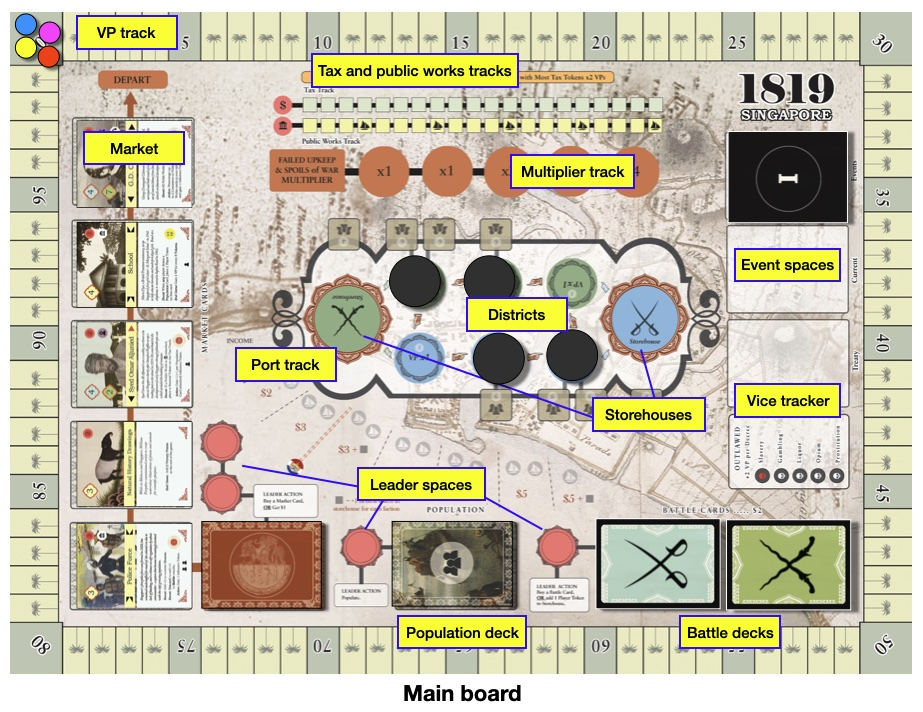
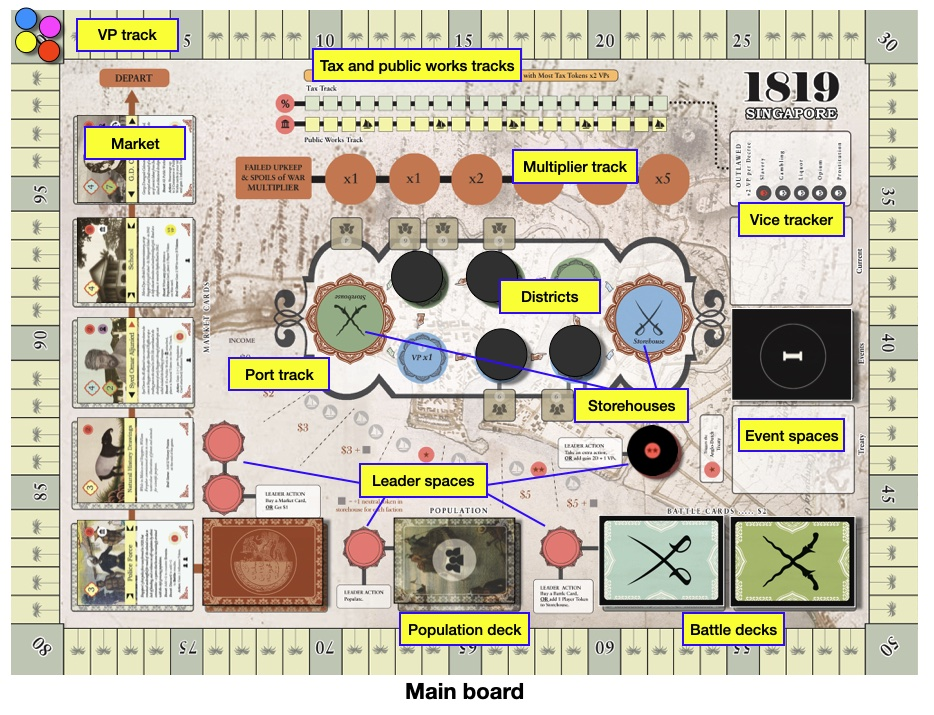
Update rules

diff --git a/5_important_concepts.md b/5_important_concepts.md
@@ -107,7 +107,7 @@ To **Fund** a Public Work, pay **$1 \\(\times\\) Upkeep Multiplier**, where the 
 When Public Works are unfunded, their physical structures --- while still standing --- must be shuttered, and the workers tending to its functions must leave.
 
 To **Close** a Public Work:
-1. Flip any one Public Works card in your Tableau face down.
+1. Flip any one Public Works card in your tableau face down.
 2. Remove the unfunded token from the Public Works track.
 3. Discard any attached Population cards.
 4. Remove the corresponding number of Population cubes from the board.
@@ -116,7 +116,7 @@ A face-down Public Work cannot be Activated. If the Public Work was part of a Co
 
 ![Closing](img/closing.jpg)
 
-> *Example.* Your Tableau had one Community, consisting of G.D. Coleman, School, and Resident.
+> *Example.* Your tableau had one Community, consisting of G.D. Coleman, School, and Resident.
 - During Upkeep, you were unable to fund your School.
 - So you flip the card over and discard the Population card and player tokens.
 - You also remove one Public Work token from the track.
@@ -131,18 +131,26 @@ On your turn, you may **Rebuild** a Public Work by paying its cost as a Free Act
 
 ## Moving cards
 
-You can move **standalone cards** and **cards at the edges of Communities**. With **one move**, you can:
+### Population cards
+{: .no_toc }
+
+With **one move**, you can move a Population card to any vacant Population slot in the same tableau.
+
+### Market and Leader cards
+{: .no_toc }
+
+You can move Market and Leader cards that are **standalone** or **at the edge of a Community**. With **one move**, you can:
 - Connect a standalone card to a Community.
 - Separate a card from a Community.
 - Separate a card from one Community and connect it to another.
 
-Population cards move with the card they are attached to. Alternatively, you can also move **Population cards** themselves to any card with sufficient Population slots.
+In this case,Population cards move with the card they are attached to.
 
-Cards cannot move between players' Tableaus. One move must be completed before the next one can begin. You may make fewer moves than specified, or opt not to move any card.
+Cards cannot move *between* tableaus. One move must be completed before the next one can begin. You may make fewer moves than specified, or opt not to move any card.
 
 ![Move card](img/move.jpg)
 
-> *Example.* You have a Community of three cards and one standalone card in your Tableau. You may move any card except School. With 1 move, you can:
+> *Example.* You have a Community of three cards and one standalone card in your tableau. You may move any card except School. With 1 move, you can:
 - Connect Sports Day (together with Orang Laut) to G.D. Coleman; or
 - Separate the Resident from School; or
 - Separate the Resident from School and connect him to Sports Day; or

diff --git a/actions_buy.md b/actions_buy.md
@@ -13,7 +13,7 @@ nav_order: 1
 Buy one available card from the Market, then:
 
 1. Resolve any [instant effects](important-concepts#instant-effects);
-2. Add the card to your Tableau, making at most one connection; then
+2. Add the card to your tableau, making at most one connection; then
 3. Shift all face-up cards to the right, and draw the top card of the Market deck to fill the leftmost space.
 
 ## Anatomy of a Market card
@@ -29,7 +29,7 @@ Buy one available card from the Market, then:
 | Symbol | Meaning |
 | :---: | :---: |
 | ![Influence](img/icons/influence.png) | Place *n* **Influence** tokens on Districts. See [Placing Influence](important-concepts#placing-influence). |
-| ![Move](img/icons/move.png) | **Move** *n* cards in **your own** / <span style="color:red"><strong>any player's</strong></span> Tableau. See [Moving cards](important-concepts#moving-cards). |
+| ![Move](img/icons/move.png) | **Move** *n* cards in **your own** / <span style="color:red"><strong>any player's</strong></span> tableau. See [Moving cards](important-concepts#moving-cards). |
 | ![Wealth](img/icons/wealth.png) | Gain *x* amount of **Wealth**. |
 | ![Public Work](img/icons/public_works.png) | **Public Works** card: Add Player token to Public Works track. See [Perform Upkeep](sequence-of-play#4-perform-upkeep). |
 | ![Tax and Philanthropy](img/icons/tax_philanthropy.png) | **Tax** card: Add *n* **Player** / <span style="color:green"><strong>Neutral</strong></span> tokens to Tax track. See [Perform Upkeep](sequence-of-play#4-perform-upkeep). |
@@ -45,7 +45,7 @@ Buy one available card from the Market, then:
 
 Connections can be made between Connectors with **opposite shapes** and **identical colors**. When you buy a Market card, make up to 1 valid connection.
 
-> *Example.* You have 4 cards in your Tableau:
+> *Example.* You have 4 cards in your tableau:
 - Cathedral and Hajjah Fatimah are connected.
 - Alexander Guthrie and Sports Day *could have been* connected, using Guthrie's left Connector.
 

diff --git a/2_sequence-of-play.md b/2_sequence-of-play.md
@@ -8,18 +8,29 @@ nav_order: 2
 ## Game Flow
 
 1819 Singapore is played over a series of eight rounds or fewer. Each round proceeds as follows:
-1. [Draw new Event card](#1-draw-new-event-card);
+1. [Events](#1-events);
 2. [Distribute Income](#2-distribute-income);
 3. [Take Player turns](#3-take-player-turns);
 4. [Perform Upkeep](#4-perform-upkeep); and
 5. [Cleanup](#5-cleanup).
 
-## 1. Draw new Event card
+## 1. Events
 
-- In the first round, reveal the Singapore Treaty and place two Ships on the Port track.
-- In succeeding rounds, reveal the top Event card and resolve any [instant effects](important-concepts#instant-effects) before proceeding. 
+### a. Check Ships
+- In the first round, skip this step.
+- In succeeding rounds, count the Ships in the Port.
+    - If there are **at least seven** Ships, discard the Singapore Treaty.
+    - The Anglo-Dutch Treaty is now in effect.
 
-See [Events](events).
+*Note: Once the Anglo-Dutch Treaty is signed, skip this step going forward---the Treaty cannot be unsigned!*
+
+### b. Draw new Event card
+- In the first round, reveal the Singapore Treaty onto the Treaty space. Add two Ships to the Port.
+- In succeeding rounds, reveal the top Event card onto the Current space. Resolve any [instant effects](important-concepts#instant-effects) before proceeding.
+
+*Note: The effects of the Anglo-Dutch Treaty are public knowledge---players may refer to the card even while covered by the Singapore Treaty.*
+
+Also see [Events](events).
 
 ## 2. Distribute Income
 
@@ -55,7 +66,7 @@ The Core Actions are:
 - Issue a **Decree**
 - Declare **War** *(counts as two Actions)*
 
-See [Core Actions]actions). 
+See [Core Actions](actions). 
 
 Other Actions may become available to you as the game progresses. The same Action may be taken twice, unless otherwise specified.
 

diff --git a/1_setup.md b/1_setup.md
@@ -50,6 +50,8 @@ Hand the player who rolls the highest the First Player token.
 
 Cover the x2 and x3 Districts with the four black markers. These Districts are closed; they must be Populated before players can place Influence tokens on them.
 
+<!-- Cover the Leader space marked with &#9733;&#9733; with the corresponding black marker. This Leader space is closed; eleven Ships must enter the Port before it opens. -->
+
 <!-- > *3-player game: the solo player only covers their x3 District.* -->
 <!-- ## Card Setup -->
 
@@ -57,10 +59,10 @@ Cover the x2 and x3 Districts with the four black markers. These Districts are c
 
 Separate the Event cards by their backs: Event I, Event II, and the Treaties.
 
-- Shuffle the Event II cards, then deal 3 face down onto the Event deck space.
-- Place the Anglo-Dutch Treaty face down on top of the Event II cards.
-- Then shuffle the Event I cards and deal 3 face down on top of the Treaty.
-- Finally, place the Singapore Treaty face down on the pile.
+- Shuffle the Event II cards, then deal 3 face down onto the Events space.
+- Then shuffle the Event I cards and deal 3 face down on top of the Event II cards.
+- Place the Singapore Treaty face down on top of the Event I cards.
+- Place the Anglo-Dutch Treaty **face up** on the Treaty space.
 
 Put the rest of the Event cards away.
 

diff --git a/index.md b/index.md
@@ -47,7 +47,9 @@ We recommend you first play **Fantasy Mode**.
 ## A Historical Notanda
 *1819* is a game of politics. The political toolbox available to players is determined by the Treaty currently in effect.
 
-When the British Agents initially arrived in the Malayan Straits --- a corner of which is now known as *Singapura*, Singapore --- they were initially allied with the local Malay Rajas against their common rivals, the Dutch and the Bugis. This alliance was cemented by the Singapore Treaty of 1819. Thus, at the start of the game, **War** is rather costly.
+When the British Agents initially arrived in the Malayan Straits --- a corner of which is now known as *Singapura*, Singapore --- they were initially allied with the local Malay Rajas against their common rivals, the Dutch and the Bugis. This alliance was cemented by the Singapore Treaty of 1819. Thus, at the start of the game, players cannot access their stronger, more destructive Battle cards.
+
+<!-- Thus, at the start of the game, **War** is rather costly. -->
 
 However, halfway through the game, the Anglo-Dutch Treaty makes peace between the Dutch and the British Agents, who no longer need to appease the Malay Rajas. The Singapore Treaty is overruled, the Rajas lose their leverage, and the threat of War looms larger on the horizon...
 

diff --git a/icons_reference_list.md b/icons_reference_list.md
@@ -10,7 +10,7 @@ nav_order: 8
 | :---: | :---: |
 | ![Influence](img/icons/influence.png) | Place *n* **Influence** tokens on Districts. See [Placing Influence](important-concepts#placing-influence). |
 | ![Populate](img/icons/immigrants.png) | Add *n* **Population** cubes to Districts. See [Placing Population](important-concepts#placing-population). |
-| ![Move](img/icons/move.png) | **Move** *n* cards in **your own** / <span style="color:red"><strong>any player's</strong></span> Tableau. See [Moving cards](important-concepts#moving-cards). |
+| ![Move](img/icons/move.png) | **Move** *n* cards in **your own** / <span style="color:red"><strong>any player's</strong></span> tableau. See [Moving cards](important-concepts#moving-cards). |
 | ![Wealth](img/icons/wealth.png) | Gain *x* amount of **Wealth**. |
 | ![Public Work](img/icons/public_works.png) | **Public Works** card: Add Player token to Public Works track. See [Perform Upkeep](sequence-of-play#4-perform-upkeep). |
 | ![Tax and Philanthropy](img/icons/tax_philanthropy.png) | **Tax** card: Add *n* **Player** / <span style="color:green"><strong>Neutral</strong></span> tokens to Tax track. See [Perform Upkeep](sequence-of-play#4-perform-upkeep). |

diff --git a/actions_activate.md b/actions_activate.md
@@ -7,11 +7,11 @@ nav_order: 3
 ---
 ## Activate
 
-Activate one card or Community in your Tableau. Take all Actions listed. **Each card or Community may only be Activated once per round.**
+Activate one card or Community in your tableau. Take all Actions listed. **Each card or Community may only be Activated once per round.**
 
 ![Activate cards](img/activate.jpg)
 
-> *Example.* In your Tableau, you have 1 standalone card --- Opium Tax Farm --- and 1 Community, consisting of Sports Day, Temenggong, and Gutta Percha Plantation.
+> *Example.* In your tableau, you have 1 standalone card --- Opium Tax Farm --- and 1 Community, consisting of Sports Day, Temenggong, and Gutta Percha Plantation.
 
 > For your first Action, you Activate the Community:
 - Sports Day lets you place 2 Influence tokens on Districts;

diff --git a/actions_populate.md b/actions_populate.md
@@ -9,13 +9,13 @@ nav_order: 2
 
 Draw the top card of the Population deck, then:
 1. Resolve any [instant effects](important-concepts#instant-effects);
-2. Place the card in a vacant Population slot in your Tableau.
+2. Place the card in a vacant Population slot in your tableau.
 
-**If your Tableau has no vacant Population slots, you may not Populate!**
+**If your tableau has no vacant Population slots, you may not Populate!**
 
 ![Population cards](img/population_tableau.jpg)
 
-> *Example.* Your Tableau has 2 cards: the Sultan and the Newspaper.
+> *Example.* Your tableau has 2 cards: the Sultan and the Newspaper.
 - The Teochews Population card occupies the Sultan's only Population slot.
 - Newspaper has one free slot, allowing you to Populate it with the Javanese.
 

diff --git a/6_endgame-and-scoring.md b/6_endgame-and-scoring.md
@@ -5,15 +5,10 @@ permalink: /endgame-and-scoring
 nav_order: 6
 ---
 
-## Endgame conditions
+## Endgame and Scoring
 
-The game ends when:
-- the Anglo-Dutch Treaty is revealed, and there are **fewer than 3 Ships** in the Port; or
-- at the **end** of a round, there are no Event cards left.
+The game ends when there are no Event cards left.
 
-> *Example.* There are 3 Ships in the Port. The Temenggong goes on a Raid and removes a Ship. But then the Sultan reveals the Perahu battle card, adding one Ship back. After Upkeep and Cleanup, the Anglo-Dutch Treaty is drawn. Phew --- the game is not over yet!
-
-## Scoring
 Players now tally Victory Points:
 - already earned on the Victory Track;
 - from Legacies; and

diff --git a/7_simulation-mode.md b/7_simulation-mode.md
@@ -52,7 +52,7 @@ Rajas may confer briefly, before simultaneously declaring their Roles by reveali
 Rajas must declare their allegiance by revealing one of the two Role cards, after which the following rule modifiers apply:
 
 ### Colonial Ally
-1. Gain **+$2 more Income**.
+1. Gain **+$1 Income**.
     - *Place your Player token on the Port track as a reminder.*
 2. You may purchase dual-cost Market cards at their British cost +$1.
 3. Your Influence tokens now generate VPs in **all Districts**.

diff --git a/actions_war.md b/actions_war.md
@@ -17,7 +17,8 @@ After the Anglo-Dutch Treaty, the cost of War drops to 4 tokens.
 2. Attacker and Defender may each accept up to **one ally's help**.
 3. Each player involved in War commits up to one Battle card.
 4. The Attacker and Defender each roll 2 dice, then reveal any face-down Battle cards.
-5. Whoever has the higher total Strength **(die roll + faction Battle card/s)** wins!
+
+Whoever has the higher total Strength **(die roll + faction Battle card/s)** wins!
 
 ## The Aftermath
 

diff --git a/actions_decree.md b/actions_decree.md
@@ -18,7 +18,7 @@ The exception is **Slavery**, which costs 8 tokens to outlaw, and cannot be lega
 ### Outlaw
 When you outlaw a Vice:
 1. Place your Player token on the corresponding Vice space on the board.
-2. Flip over all such Vice cards in all players' Tableaus.
+2. Flip over all such Vice cards in all players' tableaus.
 3. Remove the corresponding tokens from the Tax track.
 <!-- 4. Discard all such Vice cards, if any, from the Market. -->
 
